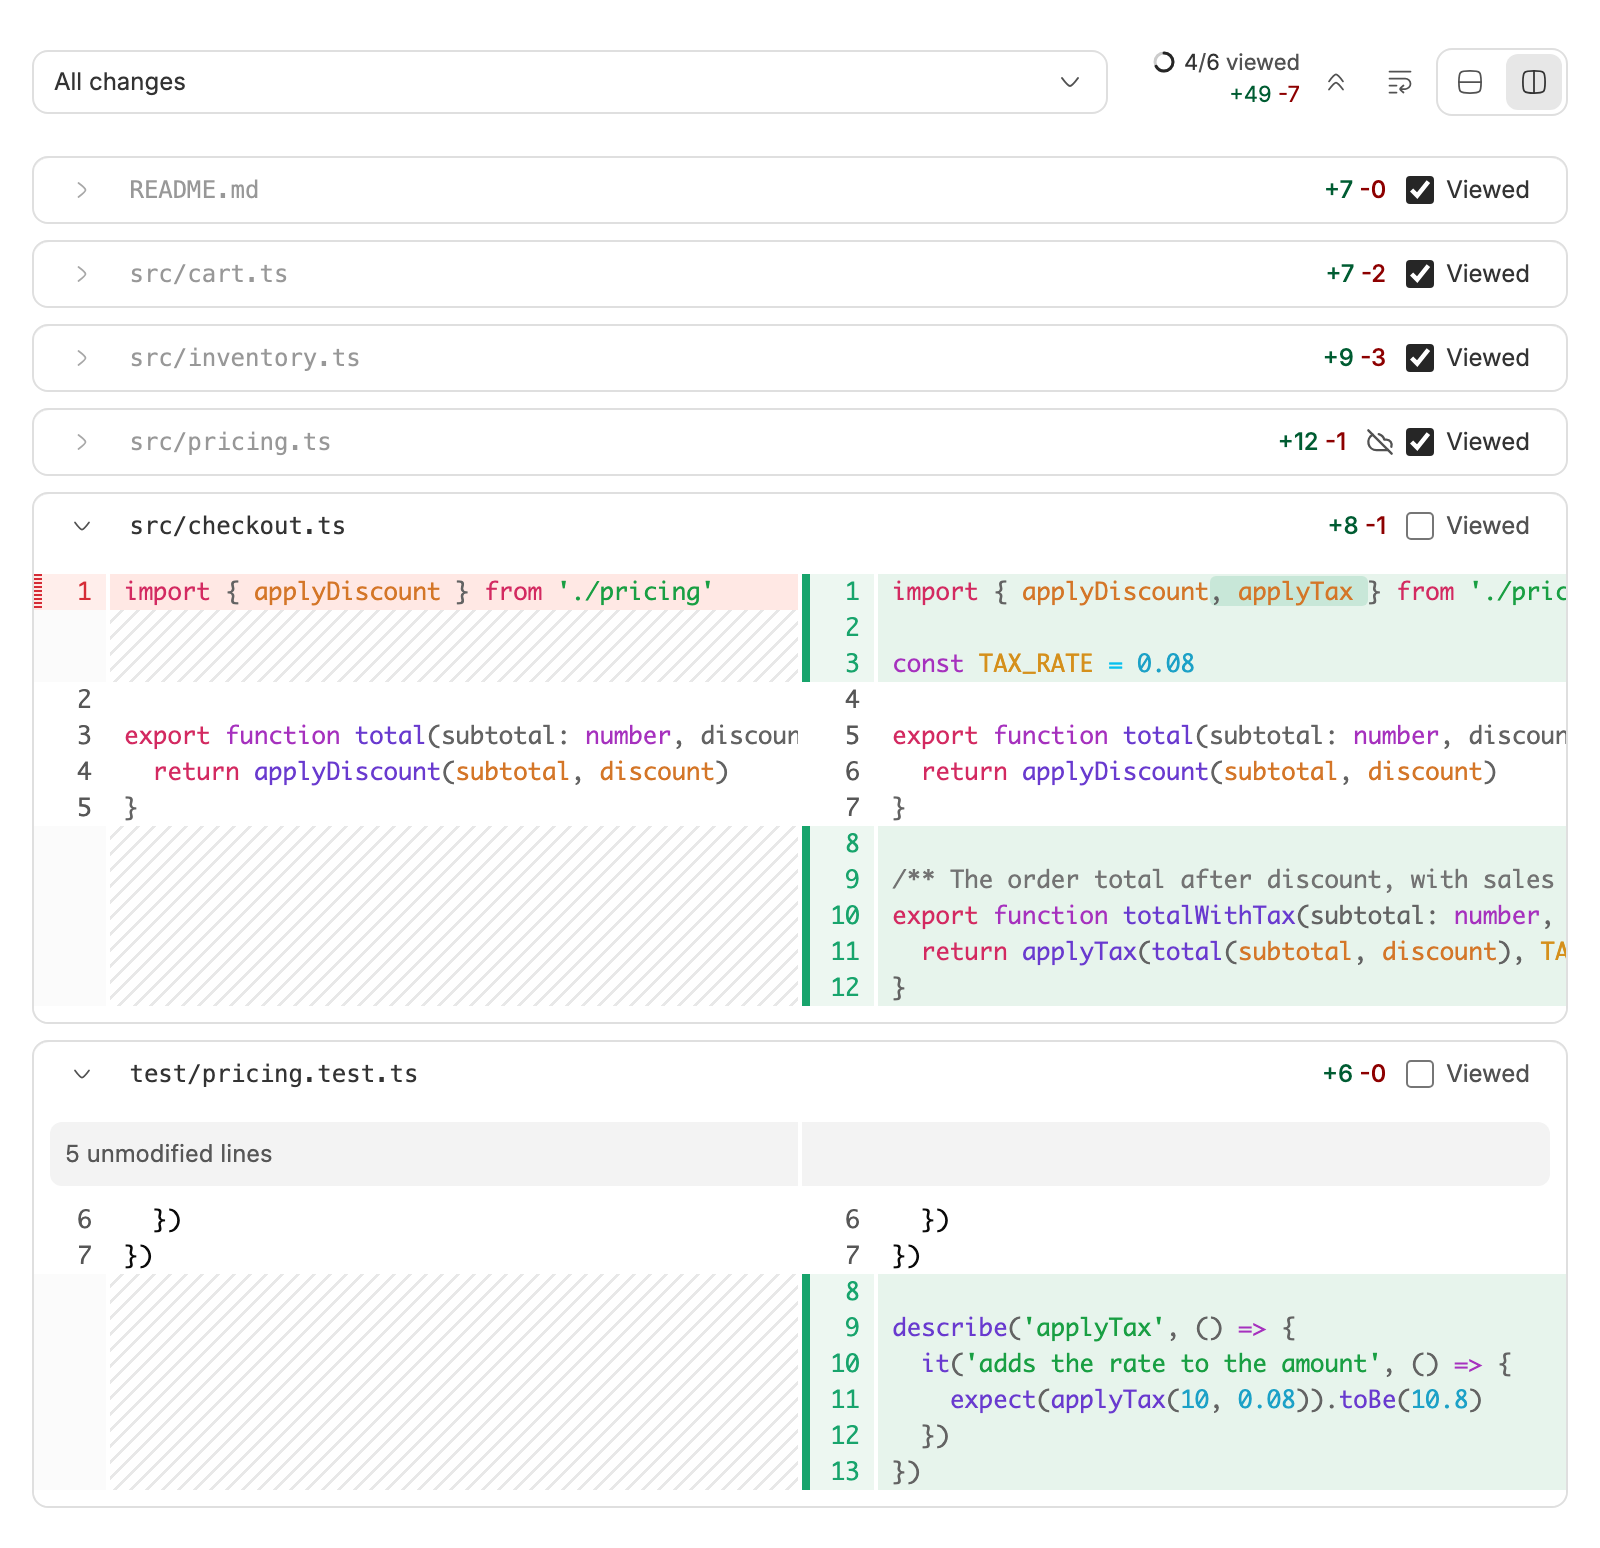
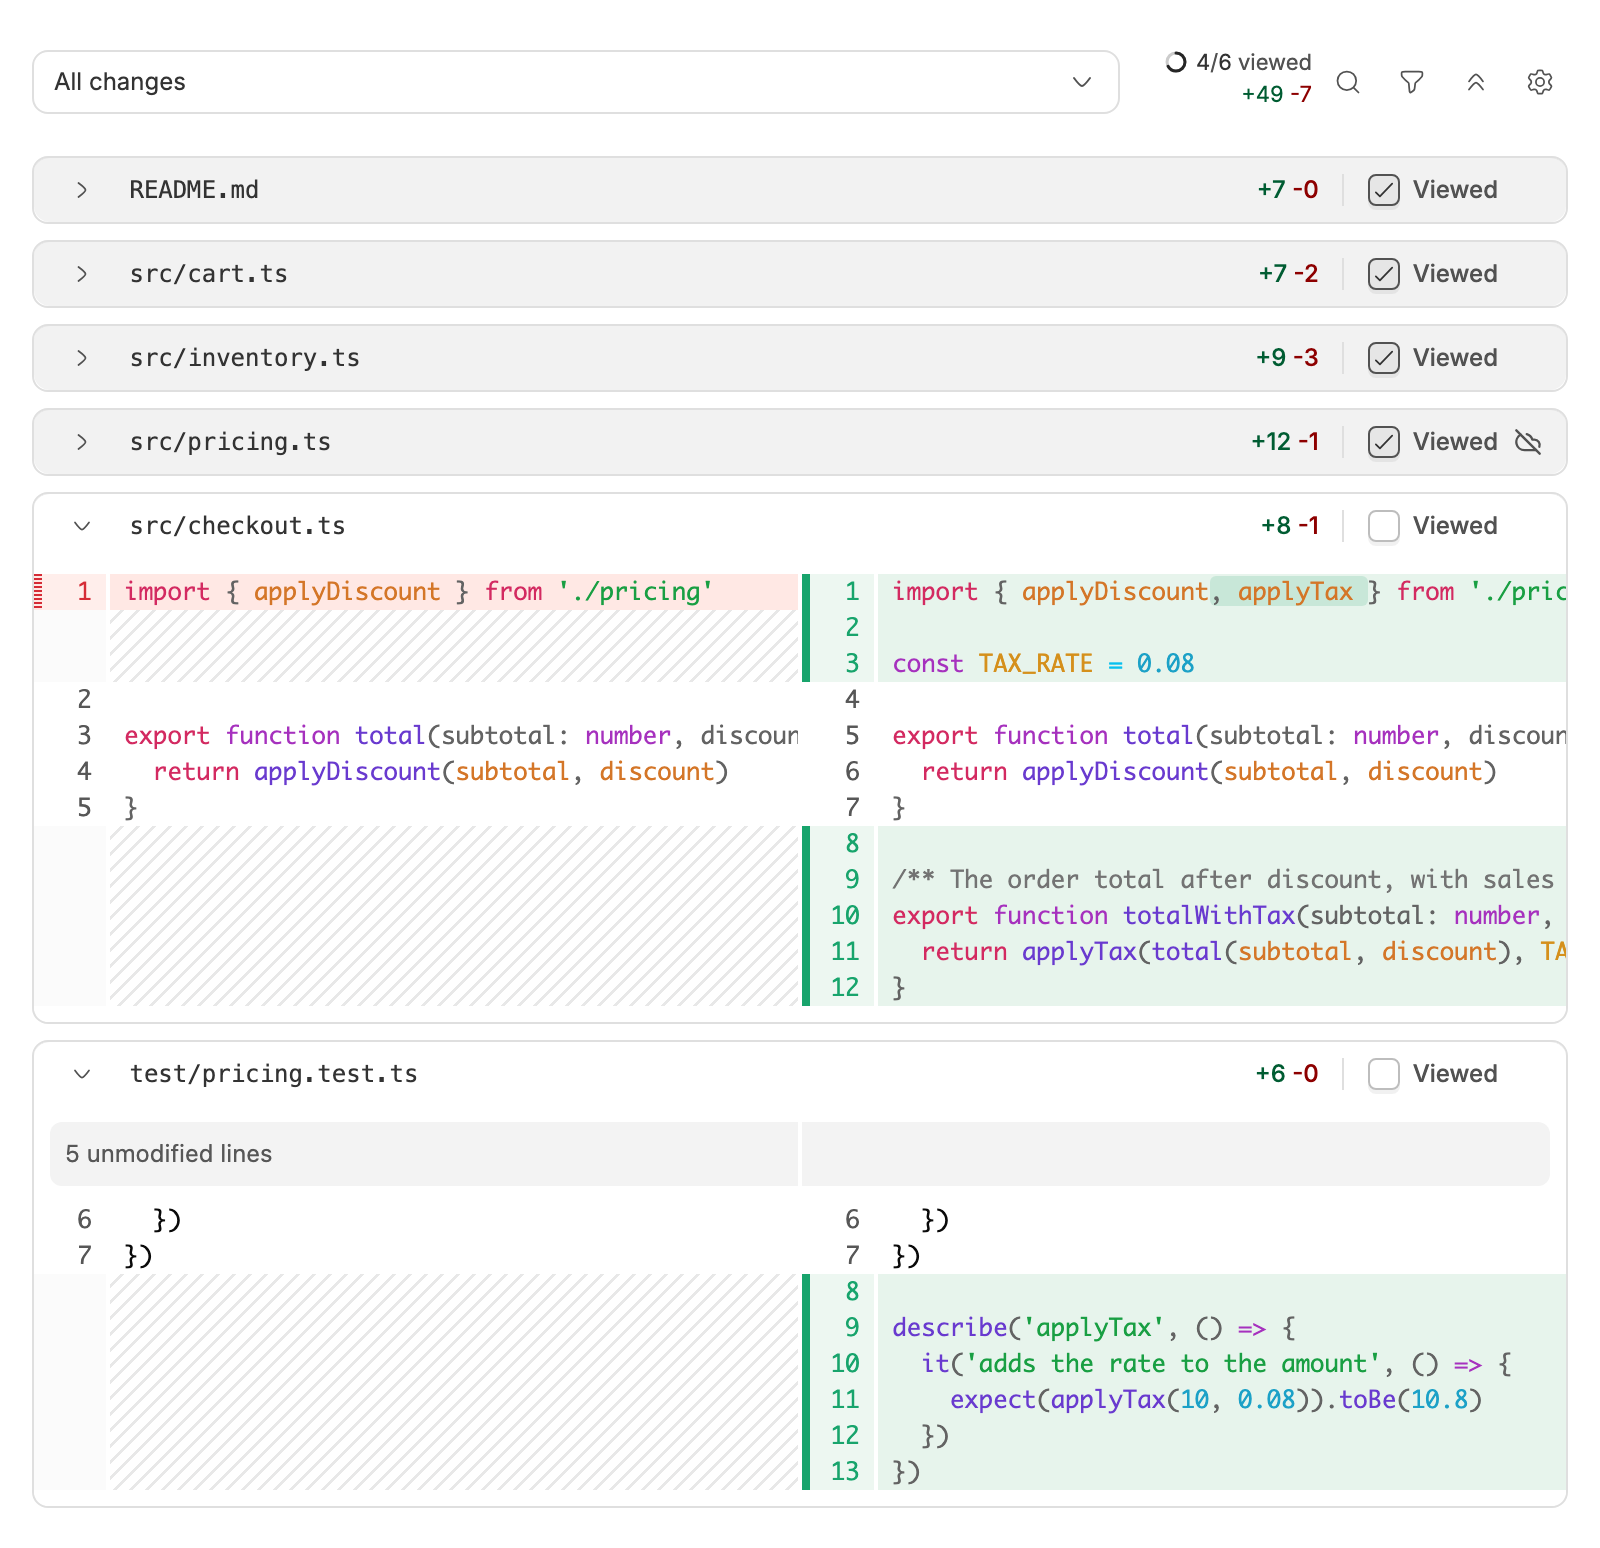
Update plugin entry: diff-viewed

diff --git a/overview/diff-viewed.md b/overview/diff-viewed.md
@@ -1,15 +1,13 @@
 ## What you get
 
-- A **Viewed** checkbox on each file in bb's changes panel. Check a file and it collapses and dims, so the files still open are the ones you have not read.
-- A count in the toolbar, such as **3/6 viewed**, across every file in the range.
-- **Only unviewed** in the range dropdown, which hides the files you have viewed.
-- Marks that clear themselves when a file's diff changes, so a rebase or a new hunk opens the file again.
-- On a thread with an open pull request, the same mark as GitHub's Viewed box, both ways. A file with edits you have not pushed is marked **Local** and goes to GitHub once a push makes the diffs match.
+- A count in the changes panel toolbar, such as **3/6 viewed**, of the files you have checked with bb's own **Viewed** checkbox, across every file in the range.
+- On a thread with an open pull request, the same marks as GitHub's Viewed boxes, both ways. Check a file in bb and it is viewed on GitHub; mark it on GitHub and it is checked in bb.
+- A **Local** icon on a file whose diff differs from the pull request's, such as one with edits you have not pushed. Its mark goes to GitHub once a push makes the diffs match.
 
 ## How it works
 
-A mark is kept per thread on this machine, keyed on the file's path and its `+N -M` counts. GitHub sync uses your `gh` sign-in: one query when the panel opens or the window regains focus, and one call per mark you change.
+bb keeps the Viewed marks. This plugin reads them to count, and syncs them with GitHub using your `gh` sign-in: at most one query for the pull request's files when the panel opens, the window regains focus, or a checkbox changes, and one call for each mark that changed.
 
 ## Requirements
 
-bb 0.41 or later. GitHub sync needs `gh` signed in, and can be turned off with the **Sync with GitHub** setting.
+bb 0.47 or later. GitHub sync needs `gh` signed in, and can be turned off with the **Sync with GitHub** setting.
